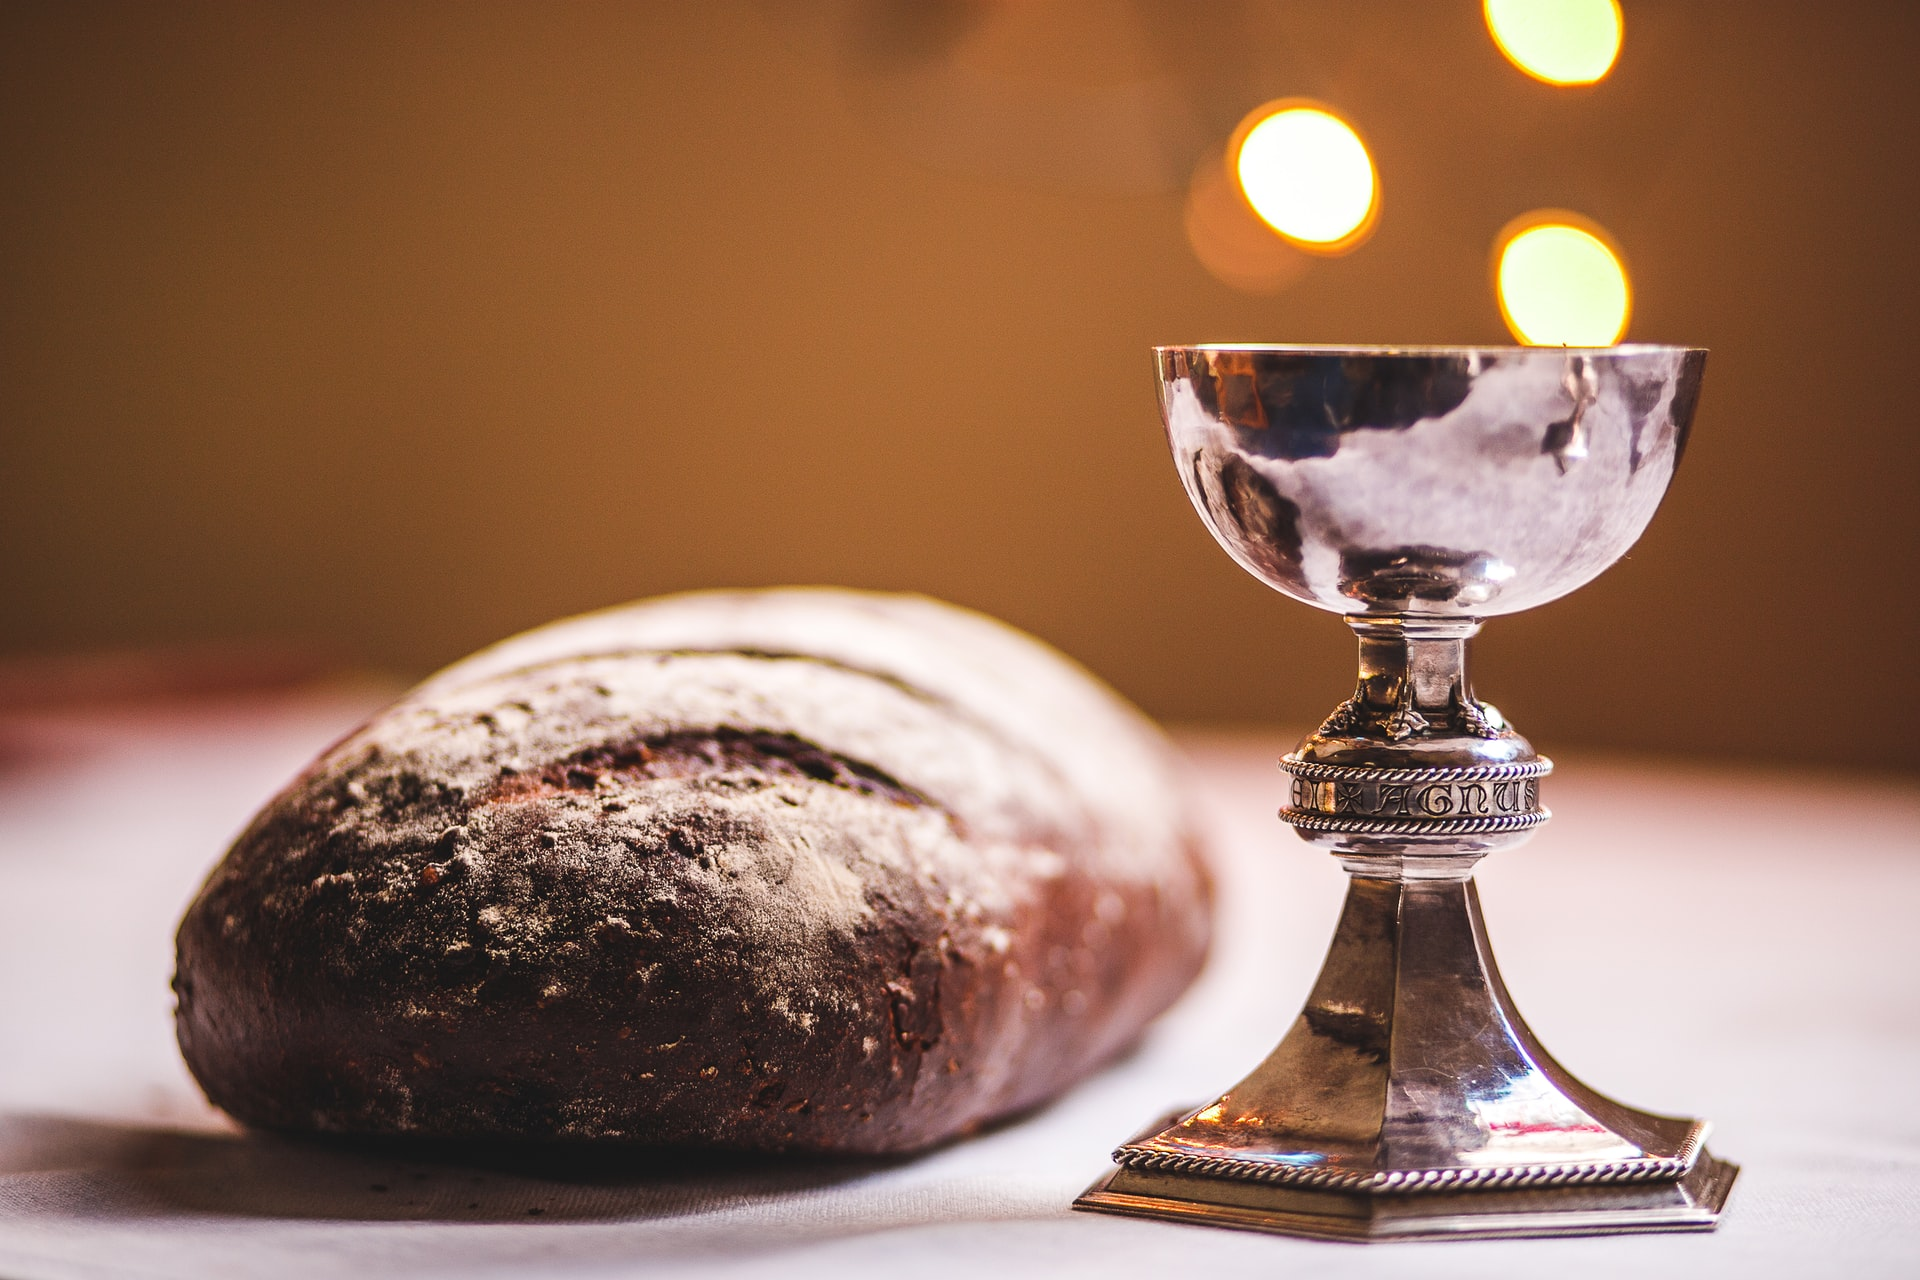
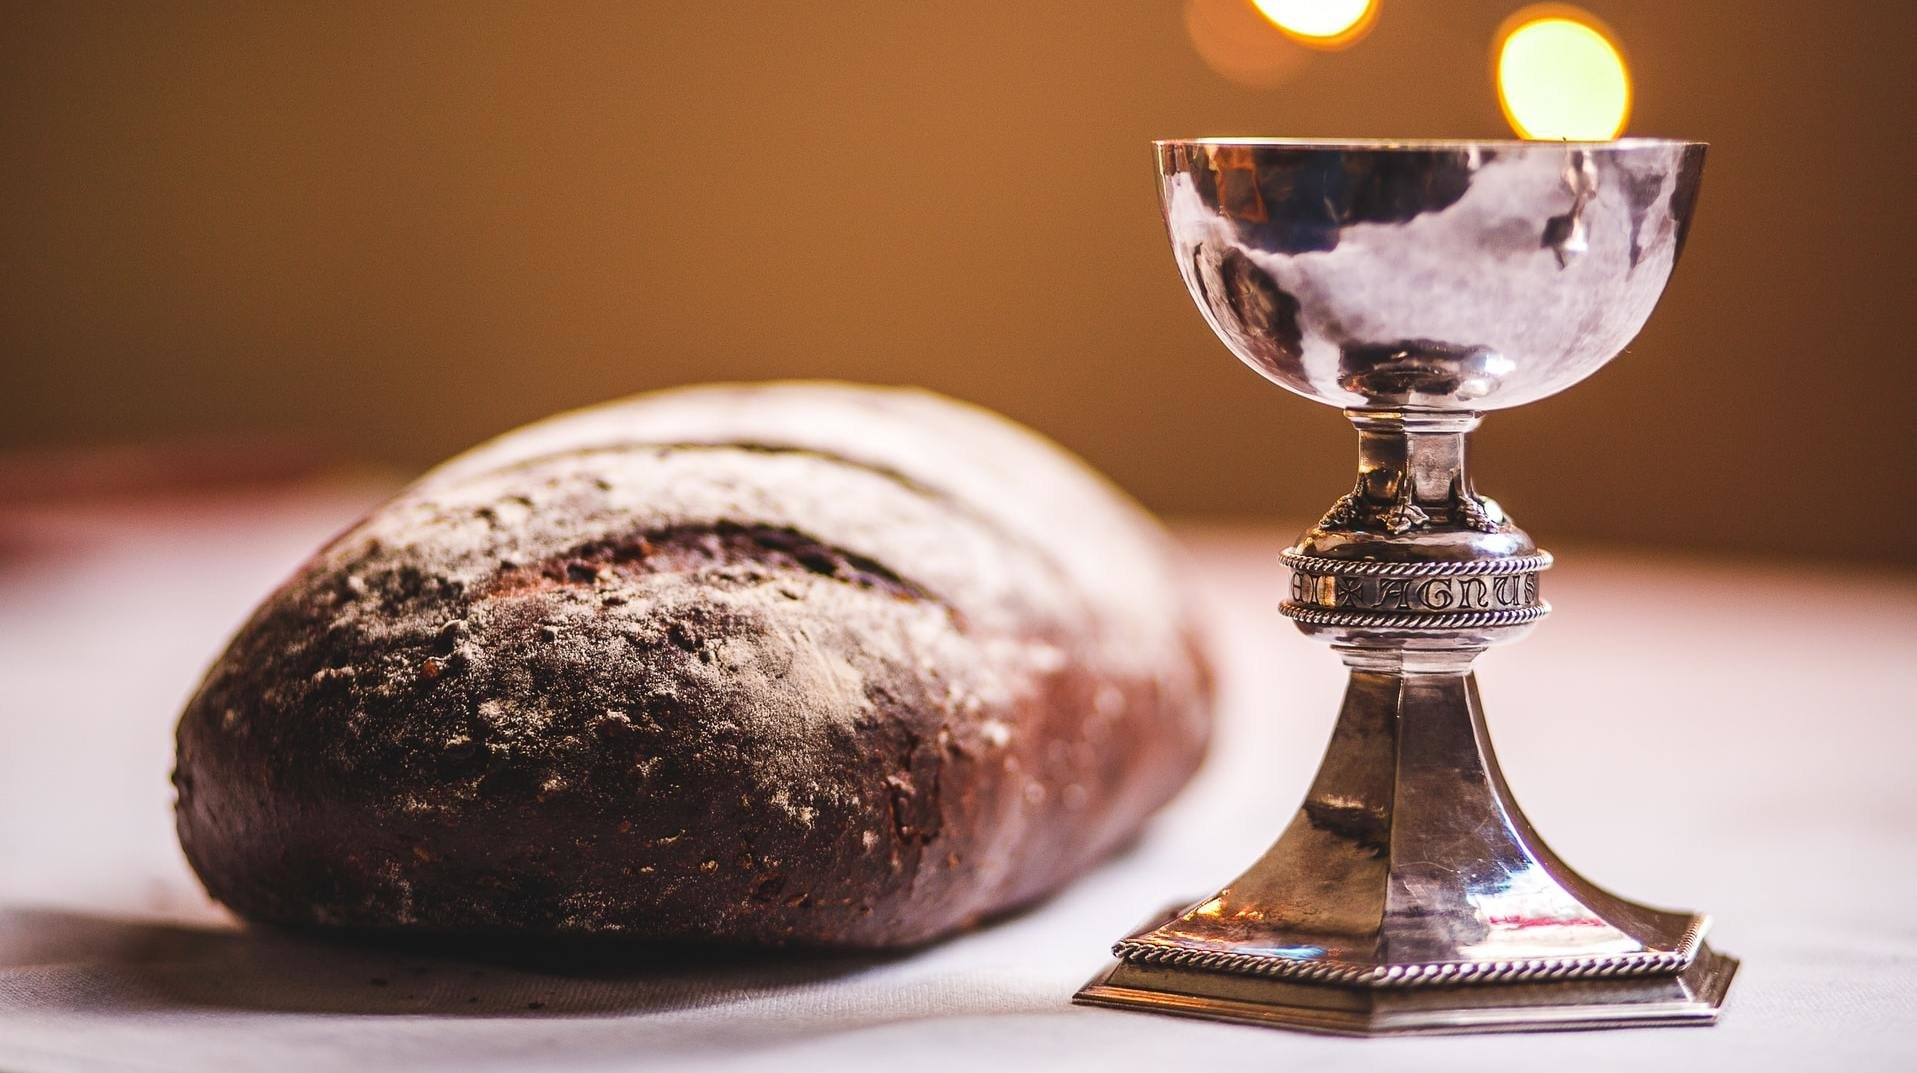
Better cover

diff --git a/themes/JesusIsLord/assets/scss/layout/home.scss b/themes/JesusIsLord/assets/scss/layout/home.scss
@@ -13,7 +13,7 @@
     background-position: center;
     background-size: cover;
     background-attachment: fixed;
-    height: 80vh;
+    height: 100vh;
 
     
     h1 {
